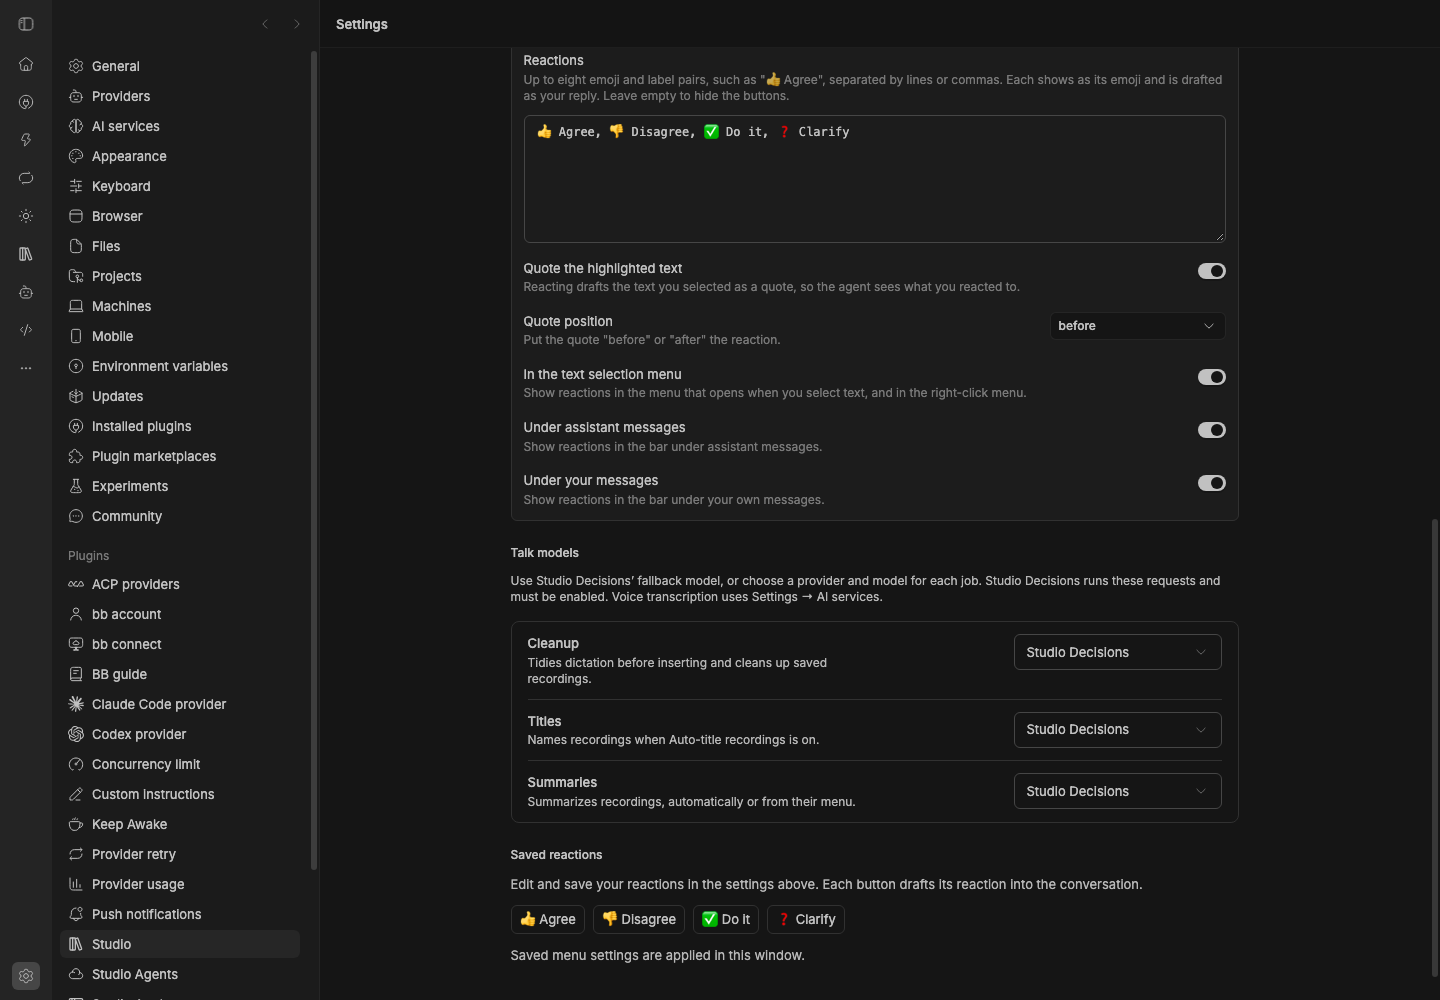
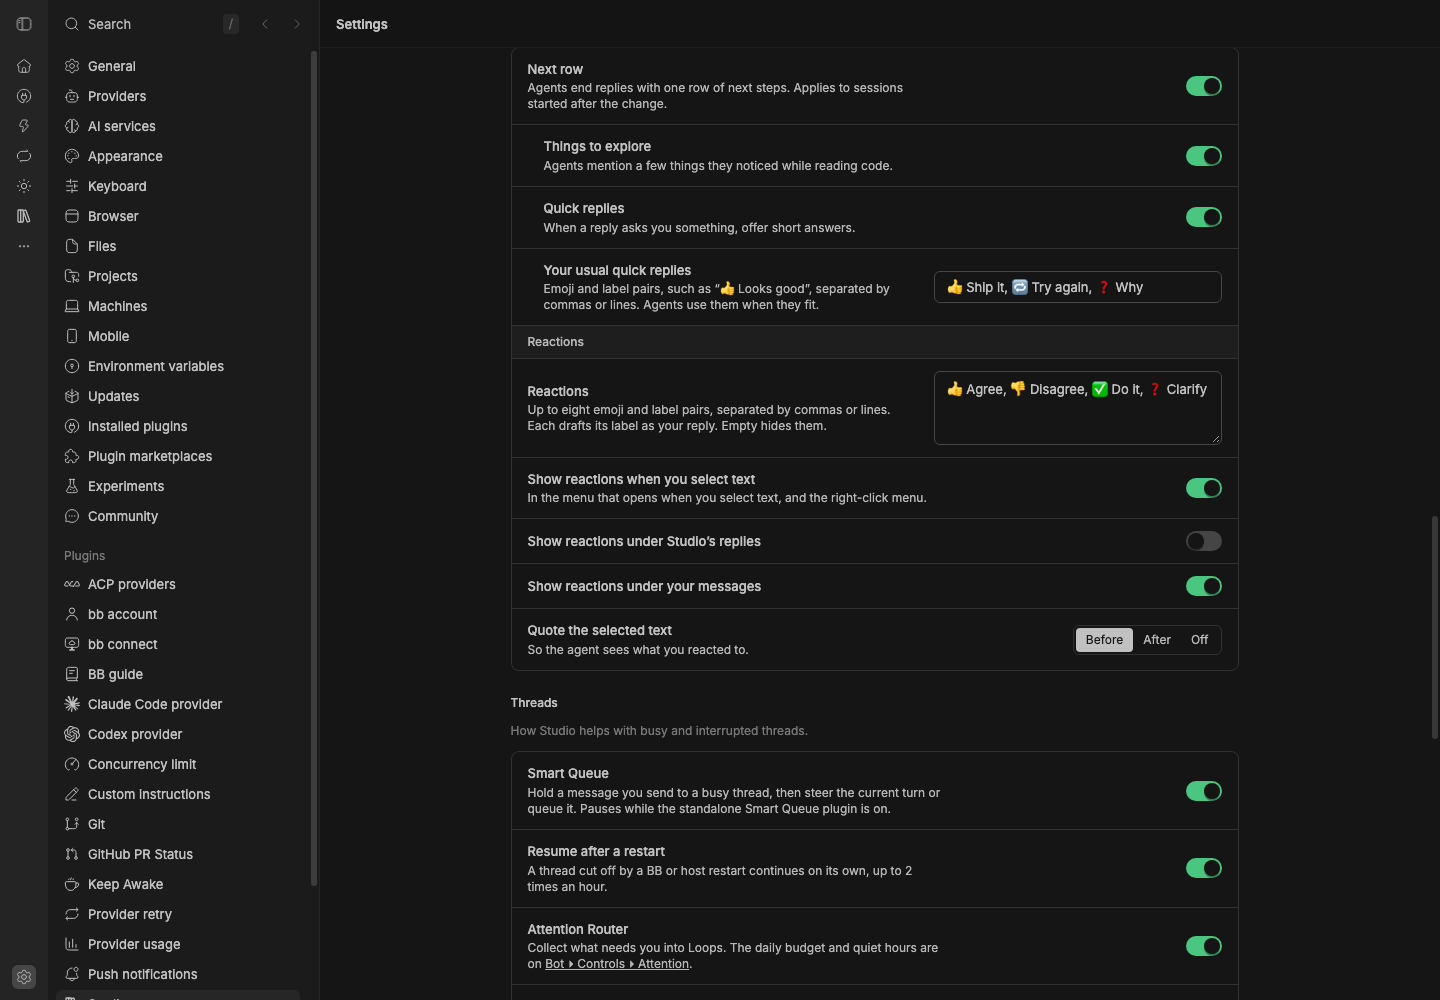
Docs: Studio's settings sections, bb studio settings and the constants
Studio's README gets a Settings section with the staged renders (the
whole settings page in dark and light, and Bot Controls → Attention),
the CLI, the migration and the constants' environment variables. The
Talk, Explore, Reactions, Decisions, Attention Router, hands-free voice
and Mobile docs follow the new labels and places. Refreshed captures:
Reactions in Agent replies, and Studio Mobile's two remaining settings.

diff --git a/packages/bb-studio/README.md b/packages/bb-studio/README.md
@@ -232,6 +232,59 @@ is a quiet line (one per morning message):
 
 ![The morning message with the Attention Router off: one "Attention Router is off" line under On today's list, and no All loops row under the Bot](assets/loops-off.png)
 
+## Settings
+
+**Settings → Plugins → Studio** starts with Studio's API keys, which BB keeps
+in its secret files: OpenAI, OpenRouter, xAI, TypeSafe, Vercel AI Gateway,
+OpenCode Zen and your own Jev endpoint's key. Every other setting is Studio's
+own, in grouped sections below them: **Voice** (dictation and hands-free:
+model, voice, backend model and monthly limit), **Recordings and calls**,
+**Agent replies** (the Next row and reactions), **Threads** (Smart Queue,
+resume after a restart, the Attention Router and page history), **Jev** (the
+provider, its connection test, the fallback model and your own endpoint) and
+**Advanced** (Smart Queue batch confidence). Last, **Phone notifications**
+shows Studio Mobile's push status and **Send a test push**. The Attention
+Router's daily budget and quiet hours are on the Bot page, under **Controls →
+Attention**.
+
+![Studio's settings page, dark](assets/settings/settings-page-dark.png)
+
+![Studio's settings page, light](assets/settings/settings-page-light.png)
+
+Captured from a staged BB upgraded from the previous Studio with changed
+settings (voice cedar, page history 40, Home server calls, custom quick
+replies), which the migration carried over. Bot → Controls → Attention:
+
+![Bot Controls, Attention](assets/settings/bot-controls-dark.png)
+
+`bb plugin config studio` lists only the API keys. The rest are scriptable
+with `bb studio settings`:
+
+```sh
+bb studio settings                    # every setting by section; (default) marks unchanged ones
+bb studio settings get loopDailyBudget
+bb studio settings set loopQuietStart 23
+bb studio settings reset autoTitle    # back to the default
+bb studio settings list --json
+```
+
+The keys are the ones BB's settings used. On the first load after this
+change, Studio copied every changed value into its own storage once, cleared
+the old **Bot avatars: OpenAI API key** (moving it only into an empty
+**OpenAI API key**; never logged) and reloaded itself so BB's page dropped the
+old fields. The old values stay unread in BB's table for a rollback.
+
+Some settings became constants. A BB host can override each with an
+environment variable (restart BB after setting one):
+
+| Was | Now | Variable |
+| --- | --- | --- |
+| Jev: TypeSafe model | `jev-latest` | `STUDIO_TYPESAFE_MODEL` |
+| Jev timeout | 5000 ms | `STUDIO_JEV_TIMEOUT_MS` (250–15000) |
+| Smart Queue: minimum confidence to steer | 0.5 | `STUDIO_JEV_STEER_CONFIDENCE` (0–1) |
+| Attention time zone | this Mac's | `STUDIO_LOOP_TIME_ZONE` |
+| Talk segment length | 25 seconds | none |
+
 ## Pages
 
 Pages are built into Studio: collaborative documents you write together with
@@ -439,7 +492,7 @@ workflows.
 
 ### Storage
 
-In **Settings → Studio**, **Saved versions per page** controls history
+In **Settings → Studio → Threads**, **Page history** (`snapshotsPerPage`) controls history
 retention. The default is 50. Set 1 to 1000 to keep that many versions, or 0
 to keep all. Lowering the limit removes older versions when that page next
 saves a version. Existing pages use the new limit without a restart.
@@ -475,7 +528,7 @@ again after you close it picks it up.
 
 Explore is experimental. Agents end answers that read code with a few things they noticed **Along the way**; clicking one drafts "💬 Tell me more" about it so the agent explains it in the thread. It ran inside the Studio Pages plugin and moved into Studio with it: Studio keeps the Next row's click log in its own database. The CLI is `bb studio pages explore stats` (`bb pages explore stats` before the merge).
 
-Explore's settings appear in **Settings → Studio** with an **Explore:** prefix (keys `explore_next`, `explore_explore`, `explore_quickReplies`, `explore_replyItems`, as before): **End replies with a Next row** (on), **Suggest things to explore** (on), **Offer quick replies** (on), and **Preferred quick replies** (`👍 Looks good, 🔁 Try another way, ❓ Explain more`). They apply to agent sessions started after the change.
+Explore's settings are in **Settings → Studio → Agent replies** (keys `explore_next`, `explore_explore`, `explore_quickReplies`, `explore_replyItems`, as before): **Next row** (on), **Things to explore** (on), **Quick replies** (on), and **Your usual quick replies** (`👍 Looks good, 🔁 Try another way, ❓ Explain more`). They apply to agent sessions started after the change.
 
 ### Next row
 
@@ -1212,22 +1265,21 @@ The compact recording header at 390 pixels, with **Chat** and **Item actions**.
 
 | Setting | Default | Effect |
 | --- | --- | --- |
-| Replace built-in dictation | on | The composer mic starts Talk. Off restores BB's one-shot dictation. |
-| Segment length (seconds) | 25 | Target piece length, 8–60. Shorter pieces show text sooner. |
-| Auto-title recordings | on | Titles recordings from their transcripts. |
-| Automatically summarize recordings | off | Summarizes on completion; the recording menu can summarize on demand. |
+| Microphone button starts Talk | on | The composer mic starts Talk. Off restores BB's one-shot dictation. |
+| Name recordings | on | Titles recordings from their transcripts. |
+| Summarize recordings | off | Summarizes on completion; the recording menu can summarize on demand. |
 | Cleanup model | Studio Decisions | Provider, model, reasoning, and supported service tier for dictation and saved-transcript cleanup. |
 | Titles model | Studio Decisions | Model for automatic recording titles. |
 | Summaries model | Studio Decisions | Model for automatic and on-demand summaries, and for notes pages. |
 | Hold-to-talk key | Right Option (Alt) | Key to hold for dictation: Right Option, Right Command, Right Control, or Off. |
 | Keep dictation audio (days) | 1 | Deletes a finished dictation's audio after this many days. 0 keeps it. |
-| Call transcription | Local (WhisperKit) | Where a recorded call becomes text: WhisperKit on this Mac, Home server (red4), or BB voice service. |
-| Call transcription: home server URL | empty | An OpenAI-compatible `/v1/audio/transcriptions` server, such as `http://red4:8000`. |
-| Call transcription: home server model | empty | The model name the server expects; empty sends `whisper-1`. |
-| Call transcription: local model | `openai_whisper-large-v3-v20240930_626MB` | The WhisperKit model, downloaded on first use. |
+| Transcribe calls | This Mac | Where a recorded call becomes text: WhisperKit on this Mac, Home server (red4), or BB voice service. |
+| Home server URL | empty | Shown for Home server: an OpenAI-compatible `/v1/audio/transcriptions` server, such as `http://red4:8000`. |
+| Home server model | empty | Under Transcription models; the model name the server expects. Empty sends `whisper-1`. |
+| Model on this Mac | `openai_whisper-large-v3-v20240930_626MB` | Under Transcription models; the WhisperKit model, downloaded on first use. |
 | Keep call audio | 30 days | 7 days, 30 days or Forever. The transcript and notes stay until you delete the recording. |
 
-They are on Studio's settings page: **Settings → Studio**, with **Talk models** below them. Open **Talk models** for the three model choices. Each job can follow Studio Decisions
+They are on Studio's settings page: **Settings → Studio**, under **Voice** (the microphone and hold-to-talk key) and **Recordings and calls**, whose **Models for titles, summaries and cleanup** disclosure has the three model choices. Audio is cut into pieces of about 25 seconds (a constant now; it was the Segment length setting). Each job can follow Studio Decisions
 or use **A specific model**, selected with BB's provider and model picker.
 Choices apply to the next request and persist across devices and restarts.
 Studio Decisions must be enabled to run either choice. Existing cleaned text,
@@ -1387,29 +1439,27 @@ offers quick replies.
 
 ![Live BB screenshot of the Reactions settings in Studio](assets/reactions.png)
 
-Captured from a staged BB: Studio's settings page with the default reaction
-list (Agree, Disagree, Do it, Clarify), quoting before the reaction, all three
-location toggles on, and the **Saved reactions** preview saying the menu
-settings are applied in this window. Before it, the capture checks that the
-seeded agent reply's message bar shows the four reactions as emoji.
+Captured from a staged BB: Studio's **Agent replies** settings section with
+the default reaction list (Agree, Disagree, Do it, Clarify) and **Quote the
+selected text** on Before. Before it, the capture checks that the seeded agent
+reply's message bar shows the four reactions as emoji.
 
 | Setting | Key | Default |
 | --- | --- | --- |
 | Reactions: up to 8 `emoji label` items, separated by lines or commas. Empty removes the buttons. | `emojiItems` | `👍 Agree, 👎 Disagree, ✅ Do it, ❓ Clarify` |
-| Quote the highlighted text | `quoteSelection` | on |
-| Quote position: `before` or `after` the reaction | `quotePosition` | `before` |
-| In the text selection menu (and the right-click menu) | `showInSelectionMenu` | on |
-| Under assistant messages | `showInAssistantBar` | on |
-| Under your messages | `showInUserBar` | on |
+| Quote the selected text: Before, After or Off (one control for the next two keys) | `quoteSelection` | on |
+| | `quotePosition` | `before` |
+| Show reactions when you select text (and the right-click menu) | `showInSelectionMenu` | on |
+| Show reactions under Studio's replies | `showInAssistantBar` | on |
+| Show reactions under your messages | `showInUserBar` | on |
 
 ```sh
-bb plugin config studio set emojiItems "👍 Agree, 👎 Disagree, ✅ Do it"
-bb plugin config studio set quotePosition after
+bb studio settings set emojiItems "👍 Agree, 👎 Disagree, ✅ Do it"
+bb studio settings set quotePosition after
 ```
 
-Message menus read the settings once when Studio's frontend loads. The
-**Saved reactions** section previews the stored list and says whether this
-window still uses older settings; **Reload window to apply** refreshes the
+Message menus read the settings once when Studio's frontend loads. After a
+change, the Agent replies section shows **Reload window**, which refreshes the
 menus. Other open windows update on their next reload.
 
 **Moving from Studio Reactions.** On its first start with `emoji-react`
@@ -2481,7 +2531,7 @@ Old draft keys and quote storage are retained.
 
 See the [Decisions guide](../../docs/decisions.md) for provider setup and the plugin RPC.
 
-Studio runs Jev, its fallback model and Smart Queue. Configure Decisions on Studio’s settings page (`decisions_` setting keys), or run `bb studio decisions status`, `check`, `recent`, `classify` and `fallback`. The standalone `smart-queue` plugin still suppresses Studio’s queue.
+Studio runs Jev, its fallback model and Smart Queue. Configure Decisions on Studio’s settings page (its keys with the API keys, the rest in the Jev, Threads and Advanced sections; `decisions_` keys, also with `bb studio settings`), or run `bb studio decisions status`, `check`, `recent`, `classify` and `fallback`. The standalone `smart-queue` plugin still suppresses Studio’s queue.
 
 The Decisions migration is complete. If Setup still lists an old Decisions
 bridge install, it is safe to remove: Studio already has the settings, keys,

diff --git a/docs/decisions.md b/docs/decisions.md
@@ -47,7 +47,7 @@ Every provider serves the same Jev model through TypeSafe's
 
 | Provider | Key setting | Environment fallback | Model |
 | --- | --- | --- | --- |
-| [TypeSafe](https://typesafe.ai) (canonical) | `decisions_typesafeApiKey` | `TYPESAFE_API_KEY` | `decisions_typesafeModel`, default `jev-latest` |
+| [TypeSafe](https://typesafe.ai) (canonical) | `decisions_typesafeApiKey` | `TYPESAFE_API_KEY` | `jev-latest` (`STUDIO_TYPESAFE_MODEL` on the host overrides it) |
 | Vercel AI Gateway | `decisions_vercelApiKey` | `AI_GATEWAY_API_KEY` | `typesafe-ai/jev` |
 | OpenRouter | `decisions_openRouterApiKey` | `OPENROUTER_API_KEY` | `typesafe/jev-1.13` |
 | OpenCode Zen | `decisions_zenApiKey` | `OPENCODE_API_KEY` | `jev-1.13` |
@@ -118,25 +118,27 @@ card starts a fresh decision for the new text.
 
 ## Settings
 
-Open **Settings → Plugins → Studio**, or use `bb plugin config studio`.
+Open **Settings → Plugins → Studio**. The keys are BB secret fields at the top (`bb plugin config studio`); the rest are in Studio's Threads, Jev and Advanced sections (`bb studio settings`).
 
 | Setting | Default | Purpose |
 | --- | --- | --- |
 | `decisions_enabled` | `true` | Turn Smart Queue on or off. Other plugins' calls are unaffected. |
 | `decisions_jevProvider` | `auto` | `auto`, `typesafe`, `vercel`, `openrouter`, `opencode-zen`, or `custom`. |
 | `decisions_typesafeApiKey`, `decisions_vercelApiKey`, `decisions_openRouterApiKey`, `decisions_zenApiKey` | — | Provider keys (secret). See [Jev providers](#jev-providers). |
-| `decisions_typesafeModel` | `jev-latest` | Dropdown: `jev-latest`, `jev-preview`, or `jev-1.13.0` to pin that version. |
 | `decisions_customJevEndpoint`, `decisions_customJevApiKey`, `decisions_customJevApiKeyCommand`, `decisions_customJevHeaders`, `decisions_customJevModel` | — | Your own System One endpoint. See [Jev providers](#jev-providers). |
-| `decisions_jevTimeoutMs` | `5000` | Deadline for each provider attempt, 250 to 15000 ms, for every caller. |
-| `decisions_steerConfidence` | `0.5` | Smart Queue's minimum Jev confidence to steer. |
 | `decisions_batchConfidence` | `0.5` | Smart Queue's minimum Jev confidence to send a follow-up in the same turn as the next one. `1` sends each on its own. |
 
-Below the form, two sections complete the page:
+The TypeSafe model (`jev-latest`), the Jev timeout (5000 ms per provider
+attempt) and Smart Queue's minimum confidence to steer (0.5) are constants. A
+BB host can set `STUDIO_TYPESAFE_MODEL`, `STUDIO_JEV_TIMEOUT_MS` (250–15000) or
+`STUDIO_JEV_STEER_CONFIDENCE` (0–1).
 
-- **Jev connection** lists the providers Studio Decisions will call, in order, and
+The Jev section also has:
+
+- The provider list shows the providers Studio Decisions will call, in order, and
   any configuration problems. **Test** sends a fixed sample message to Jev and
   reports which provider answered; it never reads a thread.
-- **Fallback model** chooses what decides when no Jev provider answers: the
+- **If Jev doesn't answer, use** chooses what decides when no Jev provider answers: the
   caller's provider (the busy thread's for Smart Queue), a
   specific model picked with BB's own provider, model, and reasoning picker,
   or off. The same choice is available as `bb studio decisions fallback`.

diff --git a/docs/voice/spike.md b/docs/voice/spike.md
@@ -280,7 +280,7 @@ of silence, and both fixes have tests.
 | gpt-live-1 | $0.05/min of voice, billed per second (a WebRTC session bills 15 s at start, credited once it runs), plus the backend's tokens | **≈ $0.05/min**. The backend `gpt-5.6-luna` costs about $0.0001 per tool turn at about 900 tokens in and 40 out. The 47 s mock session came to ≈ $0.04. |
 | gpt-realtime-2.1 | By token: audio $32 in and $64 out per million, plus transcription | ≈ $0.07/min, the retired Call's Oct 20 estimate |
 
-The monthly cap defaults to $20 (setting: "Hands-free voice: monthly cap (USD)"),
+The monthly cap defaults to $20 (setting: "Monthly limit (USD)" in Studio's Voice settings),
 which is about 400 minutes of GPT-Live. Studio refuses to start a session at the
 cap. `voiceLive.event` returns `stop` once a running session crosses it, and the
 phone says why and hangs up. The voice thread's "[PASS]" turns aren't counted:
@@ -386,19 +386,18 @@ cap and voice-thread posting as the iPhone.
   Studio setting. Sessions read settings when they start, so a change applies
   to the next session, and the menu says so: OpenAI fixes a session's voice
   and models when it's created. "Voice settings…" opens Studio's settings page
-  and scrolls to its "Hands-free voice" section. That section shows what the
-  next session will use and the month's spend. The fields are in BB's form
-  just above it, because a plugin can't link to a field in that form.
-- **Settings** (Studio's settings page, the "Hands-free voice: …" fields):
+  and scrolls to its **Voice** section, whose Hands-free rows hold these
+  settings and the month's spend.
+- **Settings** (Studio settings in the Voice section, also `bb studio settings`):
   | Key | Label | Default |
   | --- | --- | --- |
-  | `voiceLiveModel` | Hands-free voice: model | gpt-live-1 |
-  | `voiceLiveVoice` | Hands-free voice: voice | marin |
-  | `voiceLiveBackendModel` | Hands-free voice: backend model | gpt-5.6-luna |
-  | `voiceLiveMonthlyCapUsd` | Hands-free voice: monthly cap (USD) | 20 |
+  | `voiceLiveModel` | Hands-free model | gpt-live-1 |
+  | `voiceLiveVoice` | Hands-free voice | marin |
+  | `voiceLiveBackendModel` | Backend model | gpt-5.6-luna |
+  | `voiceLiveMonthlyCapUsd` | Monthly limit (USD) | 20 |
 
-  The cap and model keep their first keys, so saved values carry over. BB's
-  select can't filter the voice by model, so it lists both models' voices. A
+  The cap and model keep their first keys, so saved values carry over. The
+  Voice section lists only the chosen model's voices. A
   voice the chosen model doesn't have falls back to marin, and the menu only
   offers the model's own voices. GPT-Live's voices are marin, quartz, ripple,
   vesper, willow, stone, gleam, meridian, bossa, tempo, beacon, delta, cinder,

diff --git a/packages/bb-studio/skills/smart-decisions/SKILL.md b/packages/bb-studio/skills/smart-decisions/SKILL.md
@@ -43,7 +43,7 @@ bb studio decisions fallback [thread | off | <provider-id> <model> [<reasoning-l
 
 ## Settings
 
-Change settings with `bb plugin config studio set decisions_<key> <value>`.
+Change settings with `bb studio settings set decisions_<key> <value>` (`bb studio settings list` shows them). The provider keys are BB secret fields: `bb plugin config studio`.
 
 - `jevProvider`: `auto` (default), `typesafe`, `vercel`, `openrouter`,
   `opencode-zen`, or `custom`. `auto` tries each configured provider in that
@@ -51,15 +51,17 @@ Change settings with `bb plugin config studio set decisions_<key> <value>`.
 - Provider keys are secrets: `typesafeApiKey`, `vercelApiKey`,
   `openRouterApiKey`, `zenApiKey`, and `customJevApiKey`. Have the owner enter them in Studio settings; never request or print their contents. Environment fallbacks are `TYPESAFE_API_KEY`,
   `AI_GATEWAY_API_KEY`, `OPENROUTER_API_KEY`, and `OPENCODE_API_KEY`.
-- `typesafeModel`: `jev-latest` (default), `jev-preview`, or `jev-1.13.0`.
+- The TypeSafe model is `jev-latest`, a constant; the host can set `STUDIO_TYPESAFE_MODEL`.
 - A custom provider needs `customJevEndpoint` (full HTTPS URL of a System One
   endpoint, or HTTP on localhost) and `customJevModel`. For short-lived tokens,
   set `customJevApiKeyCommand` to a command that prints the token instead of
   `customJevApiKey`. `customJevHeaders` adds `name: value` headers separated by
   semicolons.
-- `jevTimeoutMs` applies to every caller. `steerConfidence`, `batchConfidence` and
-  `enabled` apply to Smart Queue only; other plugins apply their own thresholds.
-- The fallback model is not a `bb plugin config` setting. Use
+- The Jev timeout (5000 ms) and Smart Queue's steer threshold (0.5) are
+  constants; the host can set `STUDIO_JEV_TIMEOUT_MS` or
+  `STUDIO_JEV_STEER_CONFIDENCE`. `batchConfidence` and `enabled` apply to Smart
+  Queue only; other plugins apply their own thresholds.
+- The fallback model is not a `bb studio settings` setting. Use
   `bb studio decisions fallback`, or the picker on the settings page.
 
 Run `bb studio decisions status` after a change. It lists the Jev routes in order
@@ -82,6 +84,6 @@ and any configuration problems.
   retry with a fixed sample.
 - *No Jev provider is configured*: add a key here.
 - To stop Smart Queue, run
-  `bb plugin config studio set decisions_enabled false`.
+  `bb studio settings set decisions_enabled false`.
 
 Settings live under Studio with a `decisions_` prefix. Use Studio settings to enter API keys securely; never ask for or print their contents. Use `bb studio decisions` for the current CLI, such as `bb studio decisions status`.

diff --git a/docs/attention-router/backend.md b/docs/attention-router/backend.md
@@ -133,12 +133,14 @@ Snooze values: later_today = +3h; tonight = next 19:00; tomorrow_morning = next
 07:45 (phase 2 placeholder, no Mac presence detection). Wall times use the configured
 time zone, including DST.
 
-Settings: `loopsEnabled` (label **Attention Router**, default **OFF**) gates all
+Settings (Studio settings, `bb studio settings`): `loopsEnabled` (label **Attention Router**, in Threads, default **OFF**) gates all
 scheduled releases, cards, stale messages, pushes and loop badge counts. Tools and
 RPC remain usable for testing while disabled. Enable only after the UI is ready.
 
-Other settings: loopTimeZone (America/New_York), loopDailyBudget (5), loopQuietStart
-(22), loopQuietEnd (7). Budget is server-side and shared by all release paths.
+Other settings, on the Bot page under Controls → Attention: loopDailyBudget (5),
+loopQuietStart (22), loopQuietEnd (7). The time zone is this Mac's
+(`STUDIO_LOOP_TIME_ZONE` overrides it). Budget is server-side and shared by all
+release paths.
 
 Mobile notify remains backward compatible. Optional category BB_LOOP, loopId and
 actions are carried in notification data. APNs selects category BB_LOOP. Action

diff --git a/packages/bb-studio-mobile/README.md b/packages/bb-studio-mobile/README.md
@@ -81,8 +81,8 @@ bb plugin install .
 
 ![Studio Mobile settings in the running BB app](assets/staged-preview.png)
 
-The plugin's settings page in a staged BB (`node scripts/staged-bb.mjs start`) shows the APNs key, key file, key ID,
-team, bundle ID and environment fields and the Expo push URL, with the
-plugin's defaults: team `3753DAN98U`, bundle `nyc.plee.bbgo`, environment
-`auto` and Expo's push URL. The APNs key reads `[not set]`; no private APNs
-key or device token is staged for the capture.
+The plugin's settings page in a staged BB (`node scripts/staged-bb.mjs start`)
+shows its two settings: the APNs key (secret) and its Key ID. The staged BB
+was upgraded from the previous version with a key ID and an unreadable test
+key file path set: the key ID carried over and the key reads `[not set]`. No
+private APNs key or device token is staged for the capture.
